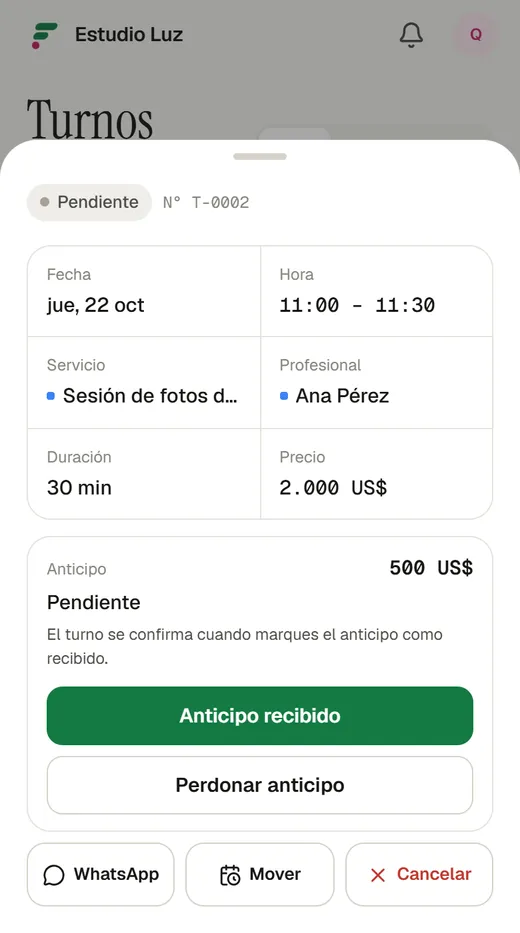
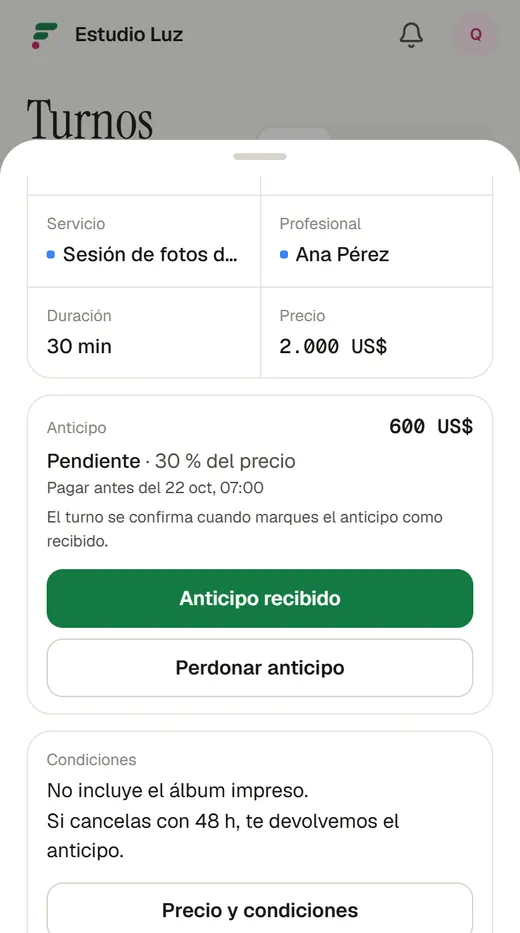
fix(db,help): a late booking pays before the appointment (094); manual for TUR0007
094: when the deposit deadline already passed at booking time, it becomes the
time of the appointment instead of "now". Manual: deadline and conditions of a
service, "Cambiar el precio o las condiciones de un turno", creating an
appointment, online booking, WhatsApp and limits; deposit.webp retaken.

diff --git a/docs/user-manual/turno-flash-user-manual.html b/docs/user-manual/turno-flash-user-manual.html
@@ -565,6 +565,7 @@
     <ul>
       <li>Si eliges un profesional, la app comprueba que no tenga otro turno a esa hora. Si lo tiene, verás <em>El profesional ya tiene un turno en ese horario</em>.</li>
       <li>El turno que creas tú nace <span class="chip st-confirmed">Confirmado</span>, aunque el servicio requiera aprobación: la aprobación es para las reservas que llegan por la web.</li>
+      <li>Debajo del servicio, <span class="ui">Precio y condiciones</span> trae los valores del servicio y te deja cambiarlos solo para este turno: precio, anticipo, fecha límite y condiciones.</li>
       <li>Si el servicio pide <strong>anticipo</strong>, eliges <span class="ui">Falta cobrarlo</span> (el turno queda pendiente hasta que lo recibas), <span class="ui">Ya lo cobré</span> o <span class="ui">Sin anticipo esta vez</span>.</li>
       <li>Con WhatsApp conectado, al crear el turno el cliente recibe la confirmación y el negocio recibe un aviso de <em>Nuevo turno</em>.</li>
     </ul>
@@ -582,6 +583,15 @@
 
   <h3>Mover un turno</h3>
   <p>Si el cliente necesita otro día u otra hora, abre el turno y toca <span class="ui">Mover</span>. Elige la nueva fecha, la hora y, si quieres, otro profesional, y pulsa <span class="ui">Mover turno</span>. La duración se mantiene. Con WhatsApp conectado, el cliente recibe <em>Tu turno cambió de horario</em> y se le pide que confirme de nuevo; también le llegará el recordatorio de la nueva hora.</p>
+
+  <h3>Cambiar el precio o las condiciones de un turno</h3>
+  <p>Cada turno toma el precio, el anticipo, el plazo y las condiciones de su servicio, pero puedes cambiarlos solo para ese turno (un descuento, un anticipo distinto, otra fecha límite). Abre el turno y, en el bloque <em>Condiciones</em>, toca <span class="ui">Precio y condiciones</span>. Cambia lo que necesites y pulsa <span class="ui">Guardar</span>. En el turno queda anotado cuándo se cambió.</p>
+  <ul>
+    <li>Si el anticipo es un porcentaje y aún no está pagado, al cambiar el precio el anticipo se recalcula solo.</li>
+    <li>Un anticipo que ya se pagó no se puede cambiar (ni su importe ni su plazo); el precio sí.</li>
+    <li>Elegir <span class="ui">Sin anticipo</span> en un turno que lo debe es lo mismo que <span class="ui">Perdonar anticipo</span>: el turno queda confirmado.</li>
+    <li>Solo el dueño cambia estas condiciones; tu equipo las ve.</li>
+  </ul>
 
   <h3>Los estados de un turno</h3>
   <div class="table-wrap">
@@ -673,9 +683,11 @@
   <ol class="steps">
     <li>Abre el servicio y marca <span class="ui">Pedir anticipo para reservar</span>.</li>
     <li>Elige <span class="ui">Porcentaje del precio</span> (por ejemplo, 30) o <span class="ui">Importe fijo</span>. Debajo ves cuánto pagará el cliente.</li>
+    <li>Opcional: en <span class="ui">Plazo para pagarlo</span> pon cuántas horas antes del turno tiene que estar pagado (por ejemplo, 24).</li>
     <li>Pulsa <span class="ui">Guardar cambios</span>. En la lista, el servicio muestra <em>Anticipo 30%</em> o el importe.</li>
   </ol>
   <p>Escribe en <span class="path">Ajustes <i>›</i> Cómo se paga el anticipo</span> a qué tarjeta transferir y a nombre de quién: se le muestra al cliente al reservar y le llega por WhatsApp. Si también vendes pasajes, ese texto está dentro de <em>Página de reservas de viajes</em> y vale para los dos.</p>
+  <p>En el mismo formulario, <span class="ui">Condiciones</span> es un texto libre con lo que incluye y no incluye el precio y cómo es la cancelación o la devolución (por ejemplo, <em>Si cancelas con 48 h te devolvemos el anticipo</em>). Tus clientes lo ven antes de reservar y en el WhatsApp de su reserva. Sirve también para servicios sin anticipo.</p>
   <p>Así funciona un turno con anticipo:</p>
   <ol class="steps">
     <li>Al reservar, el turno queda <span class="chip st-pending">Pendiente</span> y en la lista ves <em>Falta anticipo</em>. El horario queda guardado para ese cliente.</li>
@@ -683,7 +695,7 @@
     <li>Cuando paga, responde <strong>PAGUÉ</strong> o manda la foto del comprobante, y tú recibes el aviso <em>El cliente dice que pagó el anticipo</em>.</li>
     <li>Comprueba que te llegó el dinero, abre el turno y pulsa <span class="ui">Anticipo recibido</span>. El turno pasa a <span class="chip st-confirmed">Confirmado</span>, el cliente recibe <em>Recibimos tu anticipo</em> y desde ahí le llegan los recordatorios. Queda anotado quién lo marcó y cuándo.</li>
   </ol>
-  <figure class="shot"><img src="/images/help/deposit.webp" alt="Un turno pendiente con su anticipo de 500 US$ y los botones «Anticipo recibido» y «Perdonar anticipo»." width="520" height="933" loading="lazy"><figcaption>Un turno que espera su anticipo: al pulsar «Anticipo recibido» queda confirmado.</figcaption></figure>
+  <figure class="shot"><img src="/images/help/deposit.webp" alt="Un turno pendiente: anticipo de 600 US$ (30 % del precio) con su fecha límite, los botones «Anticipo recibido» y «Perdonar anticipo», y debajo las condiciones con el botón «Precio y condiciones»." width="520" height="933" loading="lazy"><figcaption>Un turno que espera su anticipo, con su fecha límite y sus condiciones. Al pulsar «Anticipo recibido» queda confirmado.</figcaption></figure>
   <div class="callout note">
     <span class="tag">Bueno saber</span>
     <ul>
@@ -692,6 +704,8 @@
       <li>Si cancelas un turno cuyo anticipo ya recibiste, aparece <span class="ui">Marcar anticipo devuelto</span> para dejar anotado que se lo devolviste.</li>
       <li>Solo tú (el dueño) marcas, perdonas o devuelves un anticipo. Tu equipo ve en qué estado está.</li>
       <li>Si cambias el precio o el anticipo de un servicio, los turnos ya reservados conservan el importe que tenían.</li>
+      <li>Si pasa la fecha límite sin que el cliente pague, el turno muestra <em>Anticipo vencido</em> en rojo. No se cancela solo: decides tú.</li>
+      <li>Si alguien reserva cuando el plazo ya pasó (por ejemplo, para mañana con un plazo de 24 h), tiene hasta la hora del turno para pagar.</li>
     </ul>
   </div>
 
@@ -739,7 +753,8 @@
     <li>En <em>Elige día y horario</em> ve los próximos días en una tira; para fechas más lejanas toca <span class="ui">Más fechas</span>, que abre un calendario del mes con todos los días que se pueden reservar.</li>
     <li>Solo ve horarios realmente libres, calculados con el horario de cada profesional, sus turnos, sus días libres y los cierres del negocio.</li>
     <li>En <em>Tus datos</em> deja nombre, teléfono de WhatsApp (con selector de país) y, si quiere, apellido, email y una nota para el negocio. Su teléfono recuerda el nombre y el número para la próxima reserva.</li>
-    <li>Si el servicio pide anticipo, lo ve en la lista de servicios y antes de dejar sus datos. Al final ve <strong>Reserva recibida</strong> con tus instrucciones de pago.</li>
+    <li>Si el servicio pide anticipo, lo ve en la lista de servicios y antes de dejar sus datos, con el plazo para pagarlo. Al final ve <strong>Reserva recibida</strong> con tus instrucciones de pago y la fecha límite.</li>
+    <li>Si el servicio tiene <strong>condiciones</strong>, las ve antes de dejar sus datos y al final.</li>
     <li>Al final ve <strong>¡Turno confirmado!</strong> o, si el servicio requiere aprobación, <strong>Solicitud enviada</strong>, con su número de turno. Si cargaste el WhatsApp del negocio en <span class="path">Ajustes</span>, también ve el botón <span class="ui">Escribir al negocio</span>.</li>
   </ul>
   <div class="callout note">
@@ -765,7 +780,7 @@
       <tbody>
         <tr><td>Al crear un turno</td><td class="wrap">Cliente y negocio</td><td class="wrap">Al cliente, los datos del turno con opción de responder OK o CANCELAR seguido del código del turno. Si está pendiente de aprobación, le dice que su solicitud se recibió. Al negocio, un aviso de <em>Nuevo turno</em>.</td></tr>
         <tr><td>Al aprobar un pendiente</td><td class="wrap">Cliente</td><td class="wrap">Que el negocio aprobó su solicitud y el turno está confirmado.</td></tr>
-        <tr><td>Al reservar un servicio con anticipo</td><td class="wrap">Cliente</td><td class="wrap">El importe del anticipo, tus instrucciones de pago y que responda PAGUÉ o mande la foto del comprobante cuando pague.</td></tr>
+        <tr><td>Al reservar un servicio con anticipo</td><td class="wrap">Cliente</td><td class="wrap">El importe del anticipo y hasta cuándo pagarlo, tus instrucciones de pago, las condiciones del servicio y que responda PAGUÉ o mande la foto del comprobante cuando pague.</td></tr>
         <tr><td>Cuando el cliente avisa que pagó</td><td class="wrap">Cliente y negocio</td><td class="wrap">Al cliente, que le avisamos al negocio. Al negocio, <em>El cliente dice que pagó el anticipo</em>.</td></tr>
         <tr><td>Al marcar el anticipo recibido</td><td class="wrap">Cliente</td><td class="wrap">Que recibimos su anticipo y el turno está confirmado.</td></tr>
         <tr><td>24 horas antes</td><td class="wrap">Cliente</td><td class="wrap">Recordatorio para confirmar con OK o cancelar.</td></tr>
@@ -907,6 +922,7 @@ Escribe <b>OK EN-0042</b> para confirmar o <b>CANCELAR EN-0042</b> si no puedes.
     <li><strong>Cobrar el anticipo dentro de la app</strong>: el cliente paga por transferencia o en mano y tú lo marcas como recibido.</li>
     <li><strong>Que un turno sin anticipo se cancele solo</strong>: si el cliente no paga, cancélalo tú.</li>
     <li><strong>Ver los anticipos en los reportes</strong>.</li>
+    <li><strong>Cobrar un turno en otra moneda</strong>: todo el negocio usa la moneda de <span class="path">Ajustes</span>.</li>
   </ul>
 </article>
 
